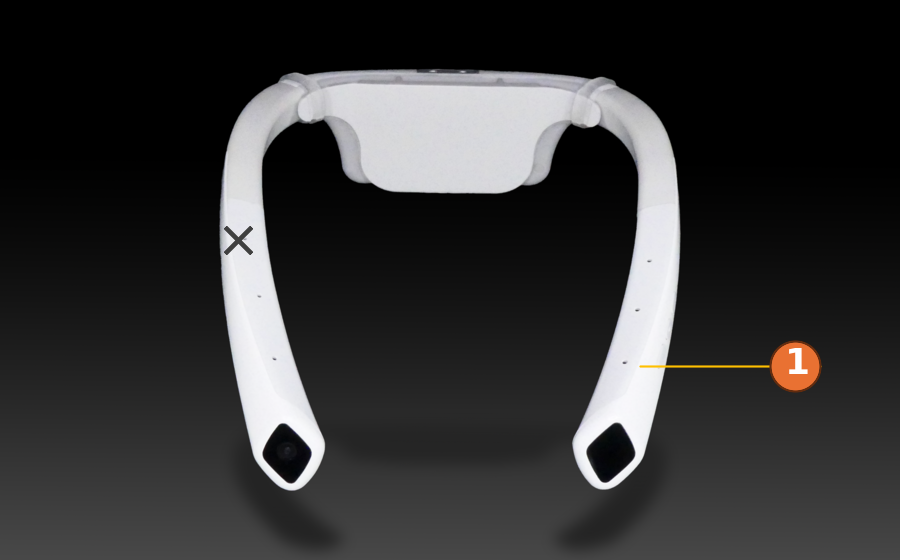
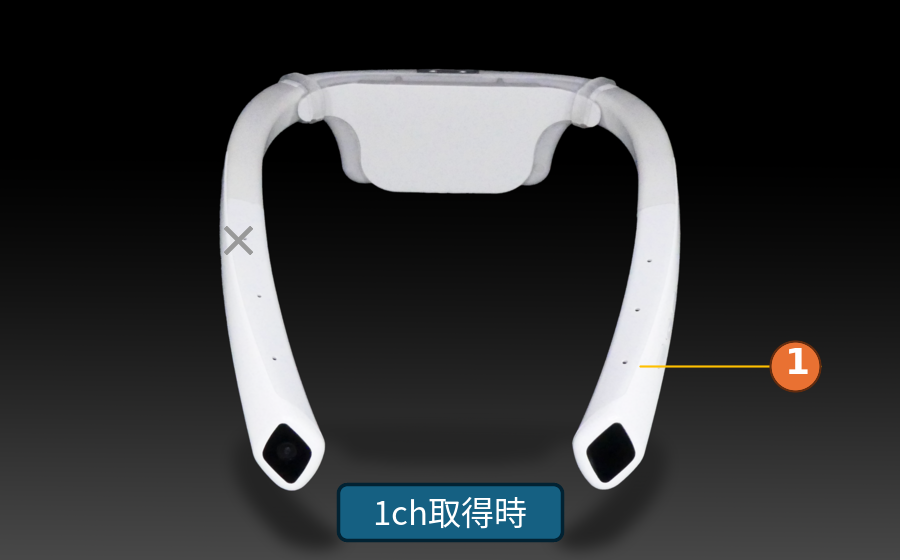
レビュー指摘を反映してマイクのチャンネル配置図をチャンネル数ごとの画像に分割し取得ch数のラベルを追加

Changed region(s): [[0.3733, 0.85, 0.6533, 0.9714], [0.2489, 0.3946, 0.28, 0.4554]]

diff --git a/documents/docs/startGuide/5_buildMultiMic.md b/documents/docs/startGuide/5_buildMultiMic.md
@@ -219,21 +219,27 @@ Audacityで取り込んだ各チャンネルの波形が、どのマイクに対
 
 ### THINKLET
 
-| 1ch取得時 | 2ch取得時 |
-| :----------: | :----------: |
-| <img src={require('./img/hw/lc-01/mic/1ch.png').default} alt="1ch取得時のマイクチャンネル配置図。画像向かって右側下部のマイクのみが1chとして使用される。" style={{ width: '900px'}} /> | <img src={require('./img/hw/lc-01/mic/2ch.png').default} alt="2ch取得時のマイクチャンネル配置図。画像向かって右側下部が1ch、左側下部が2ch。" style={{ width: '900px'}} /> |
+<div style={{ display: 'flex', alignItems: 'flex-start', gap: '8px', marginBottom: '8px' }}>
+  <img src={require('./img/hw/lc-01/mic/1ch.png').default} alt="1ch取得時のマイクチャンネル配置図。画像向かって右側下部のマイクのみが1chとして使用される。" style={{ flex: 1, minWidth: 0 }} />
+  <img src={require('./img/hw/lc-01/mic/2ch.png').default} alt="2ch取得時のマイクチャンネル配置図。画像向かって右側下部が1ch、左側下部が2ch。" style={{ flex: 1, minWidth: 0 }} />
+</div>
 
-| 5ch取得時 | 6ch取得時 |
-| :----------: | :----------: |
-| <img src={require('./img/hw/lc-01/mic/5ch.png').default} alt="5ch取得時のマイクチャンネル配置図。画像向かって右側上部が1ch、左側下部が2ch、左側中央が3ch、右側中央が4ch、右側下部が5ch。左側上部はマイクではないダミー穴。" style={{ width: '900px'}} /> | <img src={require('./img/hw/lc-01/mic/6ch.png').default} alt="6ch取得時のマイクチャンネル配置図。画像向かって右側上部が1ch、左側下部が2ch、左側中央が3ch、右側中央が5ch、右側下部が6ch。4chは物理マイクのないループバック音で、左側上部はマイクではないダミー穴。" style={{ width: '900px'}} /> |
+<div style={{ display: 'flex', alignItems: 'flex-start', gap: '8px', marginBottom: '8px' }}>
+  <img src={require('./img/hw/lc-01/mic/5ch.png').default} alt="5ch取得時のマイクチャンネル配置図。画像向かって右側上部が1ch、左側下部が2ch、左側中央が3ch、右側中央が4ch、右側下部が5ch。左側上部はマイクではないダミー穴。" style={{ flex: 1, minWidth: 0 }} />
+  <img src={require('./img/hw/lc-01/mic/6ch.png').default} alt="6ch取得時のマイクチャンネル配置図。画像向かって右側上部が1ch、左側下部が2ch、左側中央が3ch、右側中央が5ch、右側下部が6ch。4chは物理マイクのないループバック音で、左側上部はマイクではないダミー穴。" style={{ flex: 1, minWidth: 0 }} />
+</div>
 
 ### THINKLET cube
 
-<img
-  src={require('./img/hw/lc-02/mic/channels.png').default}
-  alt="THINKLET cubeのマイク穴配置図。カメラ上部に3つ、カメラ左側に2つの穴があり、1ch/2ch/5ch/6ch取得時それぞれのチャンネル番号を示す。"
-  style={{ width: '900px'}}
-/>
+<div style={{ display: 'flex', alignItems: 'flex-start', gap: '8px', marginBottom: '8px' }}>
+  <img src={require('./img/hw/lc-02/mic/1ch.png').default} alt="1ch取得時のマイクチャンネル配置図。画像向かって上部右寄りの穴のみが1chとして使用される。" style={{ flex: 1, minWidth: 0 }} />
+  <img src={require('./img/hw/lc-02/mic/2ch.png').default} alt="2ch取得時のマイクチャンネル配置図。画像向かって上部右寄りの穴が1ch、左側下部の穴が2ch。" style={{ flex: 1, minWidth: 0 }} />
+</div>
+
+<div style={{ display: 'flex', alignItems: 'flex-start', gap: '8px', marginBottom: '8px' }}>
+  <img src={require('./img/hw/lc-02/mic/5ch.png').default} alt="5ch取得時のマイクチャンネル配置図。画像向かって上部左寄りが1ch、上部中央が4ch、上部右寄りが5ch、左側上部が3ch、左側下部が2ch。" style={{ flex: 1, minWidth: 0 }} />
+  <img src={require('./img/hw/lc-02/mic/6ch.png').default} alt="6ch取得時のマイクチャンネル配置図。画像向かって上部左寄りが1ch、上部中央が5ch、上部右寄りが6ch、左側上部が3ch、左側下部が2ch。4chは物理マイクのないループバック音。" style={{ flex: 1, minWidth: 0 }} />
+</div>
 
 :::info[補足]
 - THINKLETの写真の「×」は、マイクではない「ダミー穴」です。
